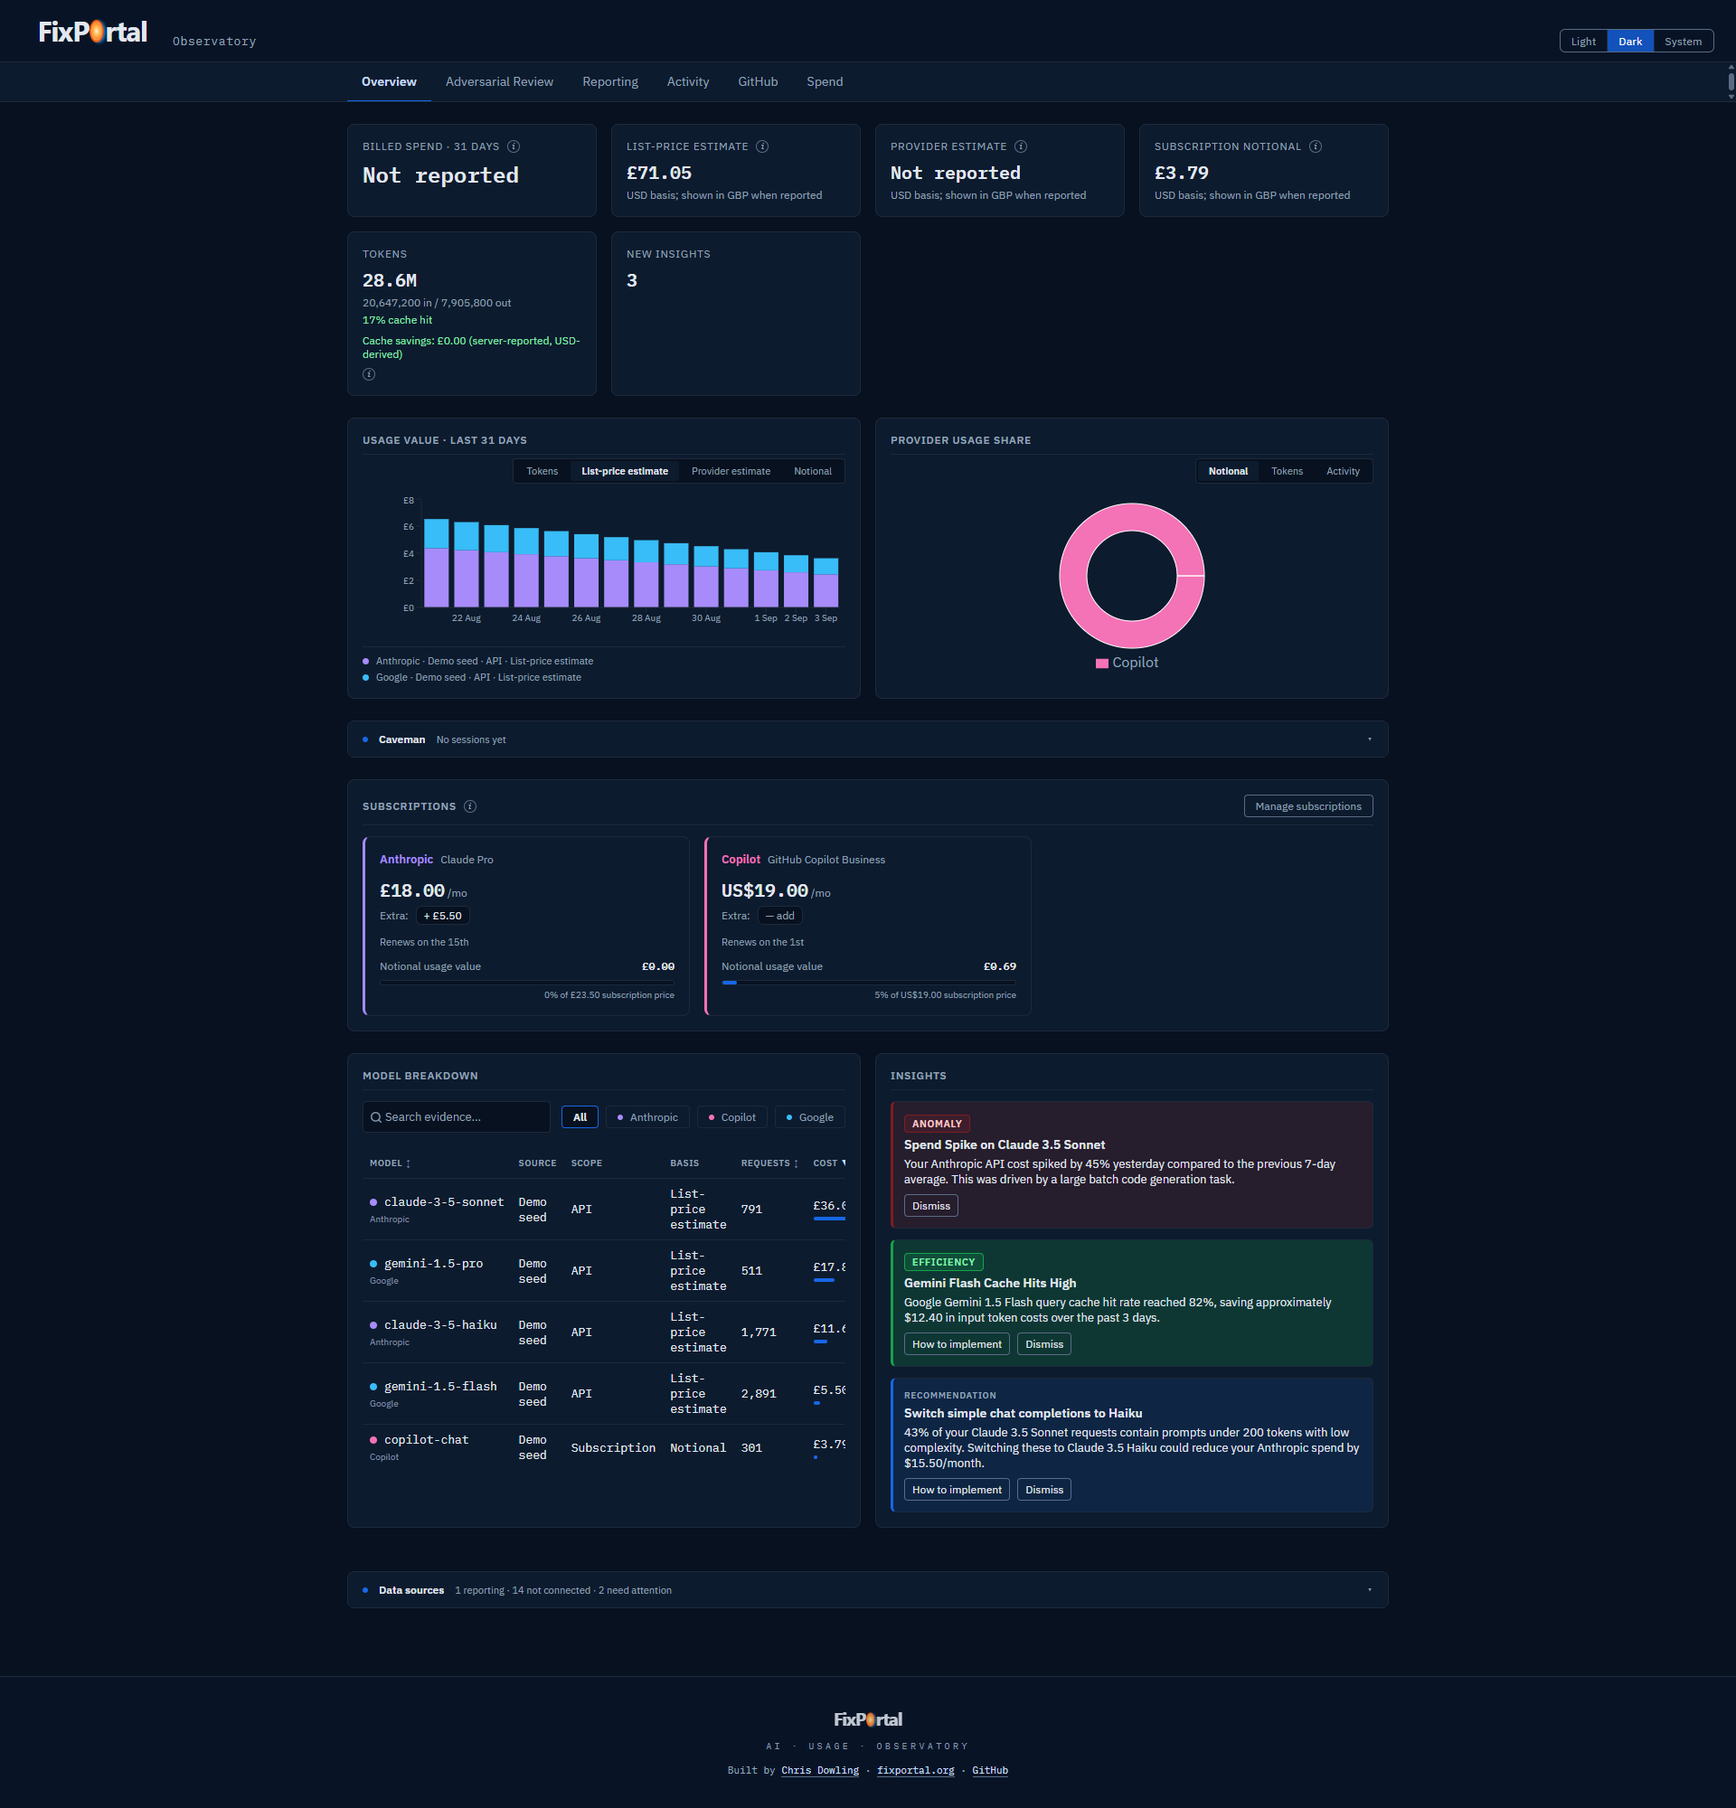
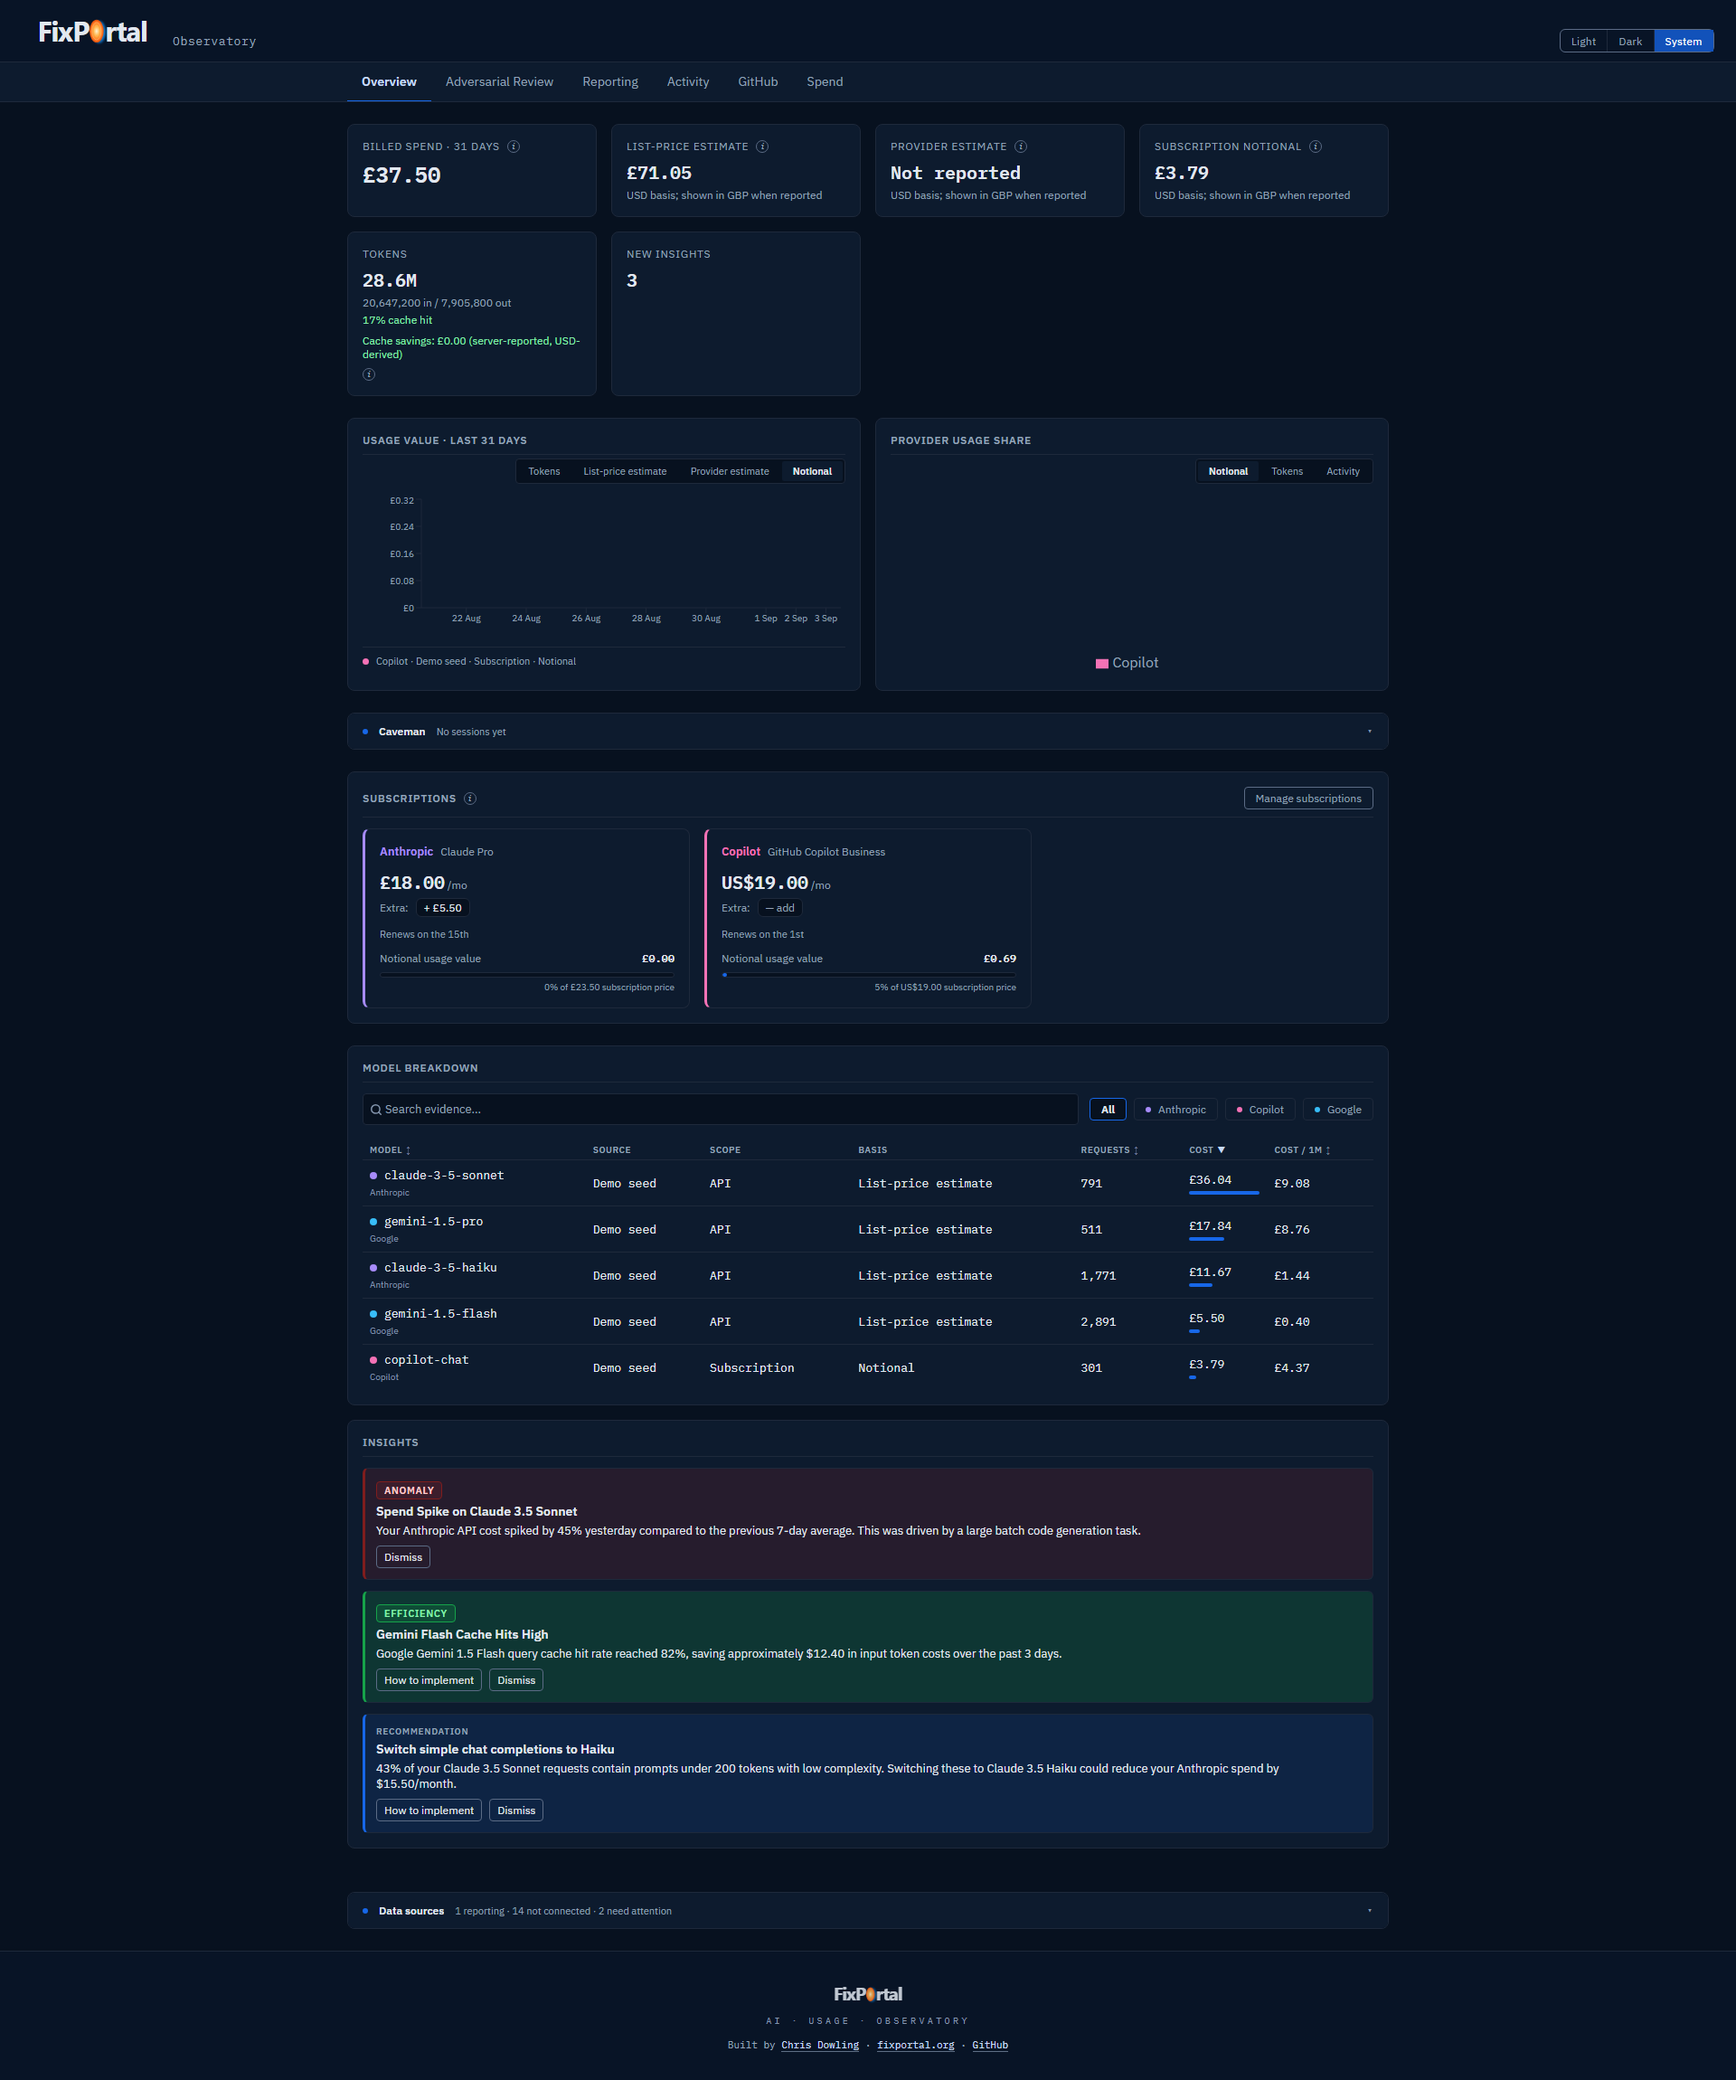
docs: recapture the screenshots against the fixed layout and seeded ledger Both shots now reflect the two changes in this branch. dashboard.png shows the model breakdown at full width, with cost and cost / 1M visible without sideways scrolling — the columns the previous capture cut off. reporting.pn

diff --git a/README.md b/README.md
@@ -81,7 +81,7 @@ Use neutral placeholders such as `<observatory-api-key>` outside your secret sto
 
 ![Observatory Overview showing billed spend, list-price estimate, provider estimate, and subscription notional as separate cards](docs/dashboard.png)
 
-The Overview above runs on the Compose demo seed, which carries no billed evidence: billed spend and provider estimate therefore read `Not reported` rather than zero. The same rules apply to every card:
+The Overview above runs on the Compose demo seed. Note that provider estimate reads `Not reported` rather than zero, because the seed carries no provider-reported cost — the distinction the cards exist to preserve:
 
 - Billed spend contains provider-reported financial or ledger evidence only.
 - Estimated cost is API usage rated from an observed public catalog.
